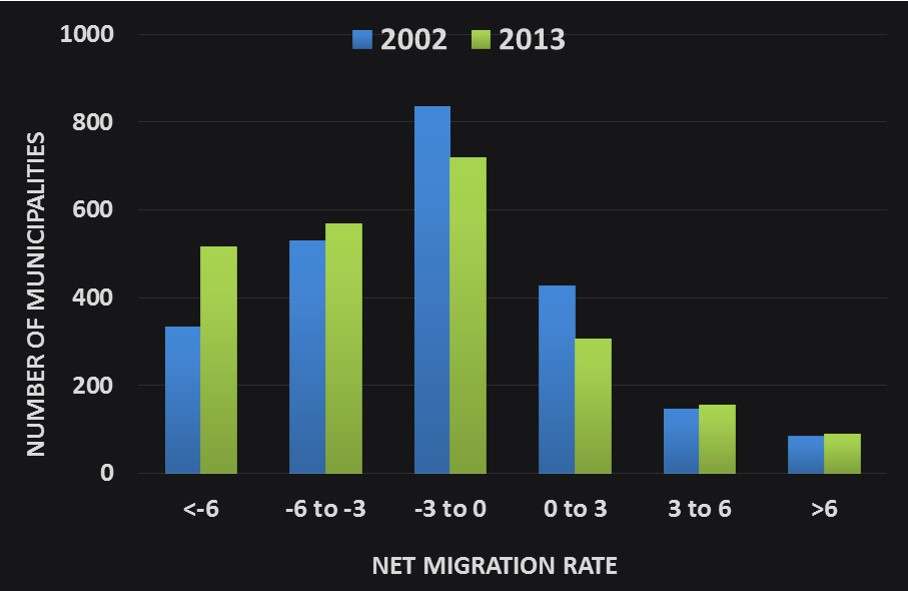
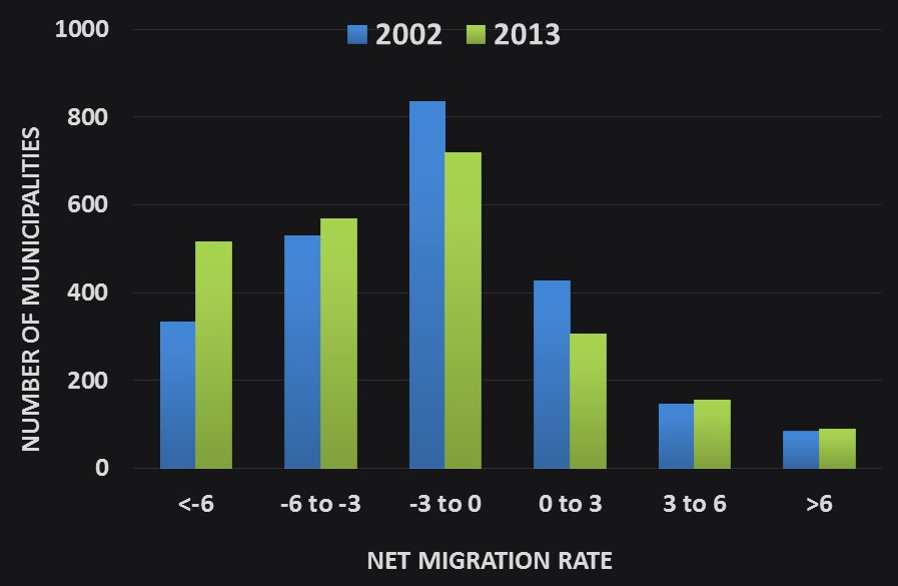
slides draft1

diff --git a/index.html b/index.html
@@ -3,9 +3,9 @@
 <html lang="en">
 	<head>
 		<meta charset="utf-8">
-		<title>ICPG 2015 Austria</title>
-		<meta name="description" content="Internal migration in Austria along the rural-urban continuum and across the life course, 1996–2014">
-		<meta name="author" content="Nikola Sander and Ramon Bauer">
+		<title>BSPS 2015</title>
+		<meta name="description" content="Internal migration in Austria along the rural-urban continuum and across the life course, 1996–2013">
+		<meta name="author" content="Ramon Bauer and Nikola Sander">
 		
 		<meta name="apple-mobile-web-app-capable" content="yes" />
 		<meta name="apple-mobile-web-app-status-bar-style" content="black-translucent" />
@@ -44,14 +44,14 @@
 			<section data-background="images/nuts-circular-2013.png" data-background-size="contain">
 				<div style="background-color: rgba(0, 0, 0, 0.65); width:100%; margin:0 auto; text-align: center">
 				<h4 style="text-align: center; font-size: 140%; font-weight: bold">Internal migration in Austria along the rural-urban continuum and across the life course, 1996–2013</h4>
-				<h5 style="text-align: center;font-size: 120%">Nikola Sander and Ramon Bauer</h5>
-				<h5 style="text-align: center;font-size: 120%">ICPG, Brisbane, July 2015</h5>		
+				<h5 style="text-align: center;font-size: 120%">Ramon Bauer and Nikola Sander</h5>
+				<h5 style="text-align: center;font-size: 120%">BSPS, Leeds, UK, September 2015</h5>		
 				</div>
 			</section>
 
 			<section>		
 				<h2>Trends in internal migration</h2>
-				<p>Overall decline in the volume of movement (IMAGE)</p>
+				<p>Overall decline in the volume of movement (IMAGE project)</p>
 				<p>Re-urbanisation tendencies in Western Europe (e.g. Germany)</p>
 			</section>	
 
@@ -76,6 +76,16 @@
 			<h4  style="text-align:center; color:#333">Higher net gains among 18-24 year olds in urban cores</h4>
 			</div>
 			<br><br><br><br><br><br><br><br><br><br><br><br><br><br><br><br><br><br><br><br>
+			</section>	
+
+			<section>		
+				<h3>Shift towards stronger gains and losses among 18-24 year olds between 2002 and 2013</h3>
+				<img src="images/municipalities-by-net-rate.jpg"  width="85%">
+			</section>	
+
+			<section>		
+				<h3>18-24 year olds increasingly moving up the urban hierarchy</h3>
+				<img src="images/net-migration-1824-popsize.jpg"  width="85%">
 			</section>	
 
 			<section>
